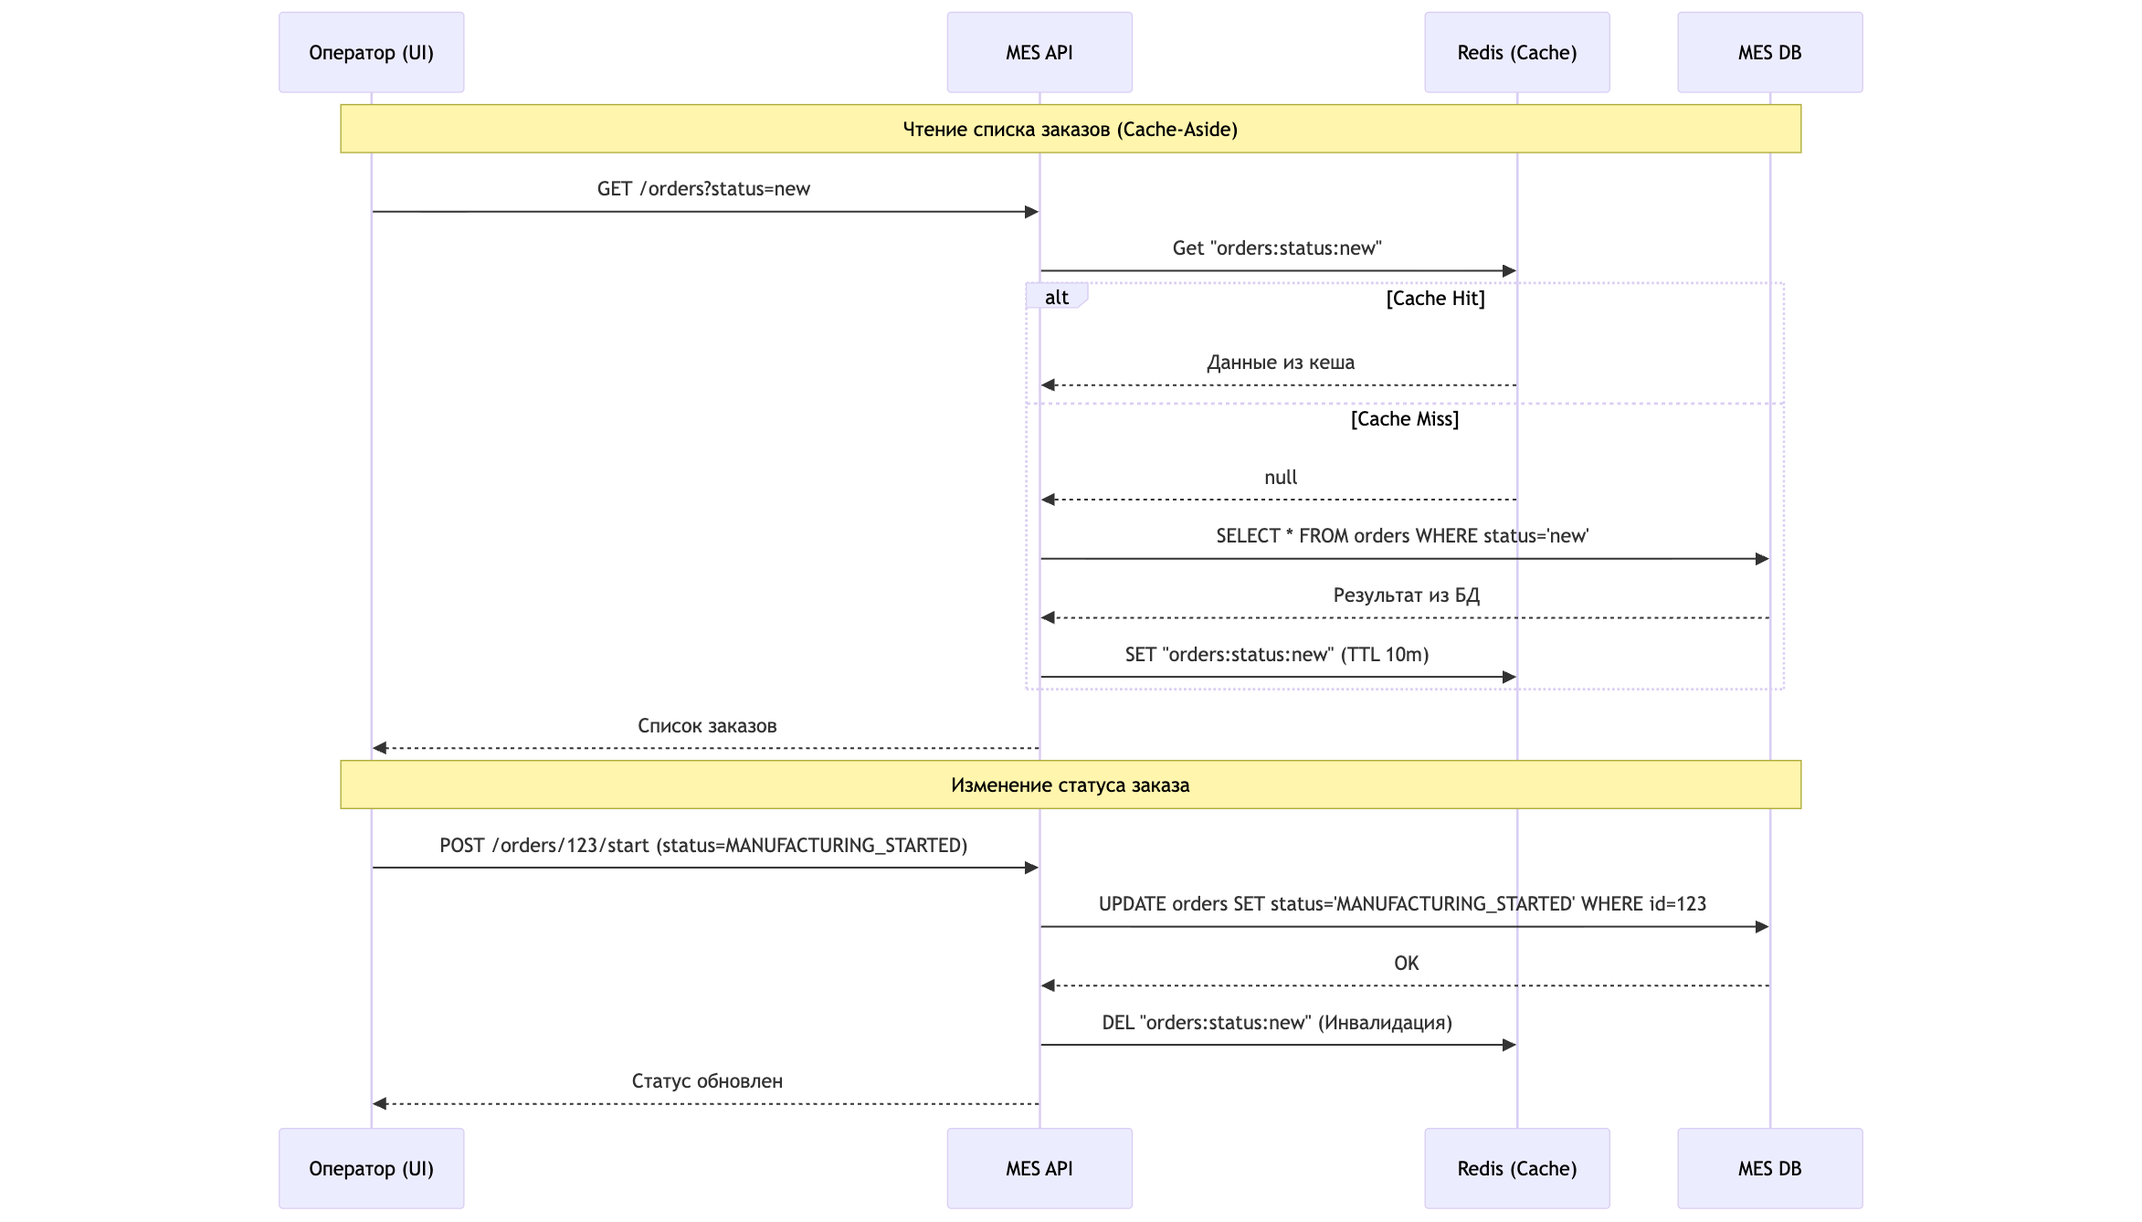
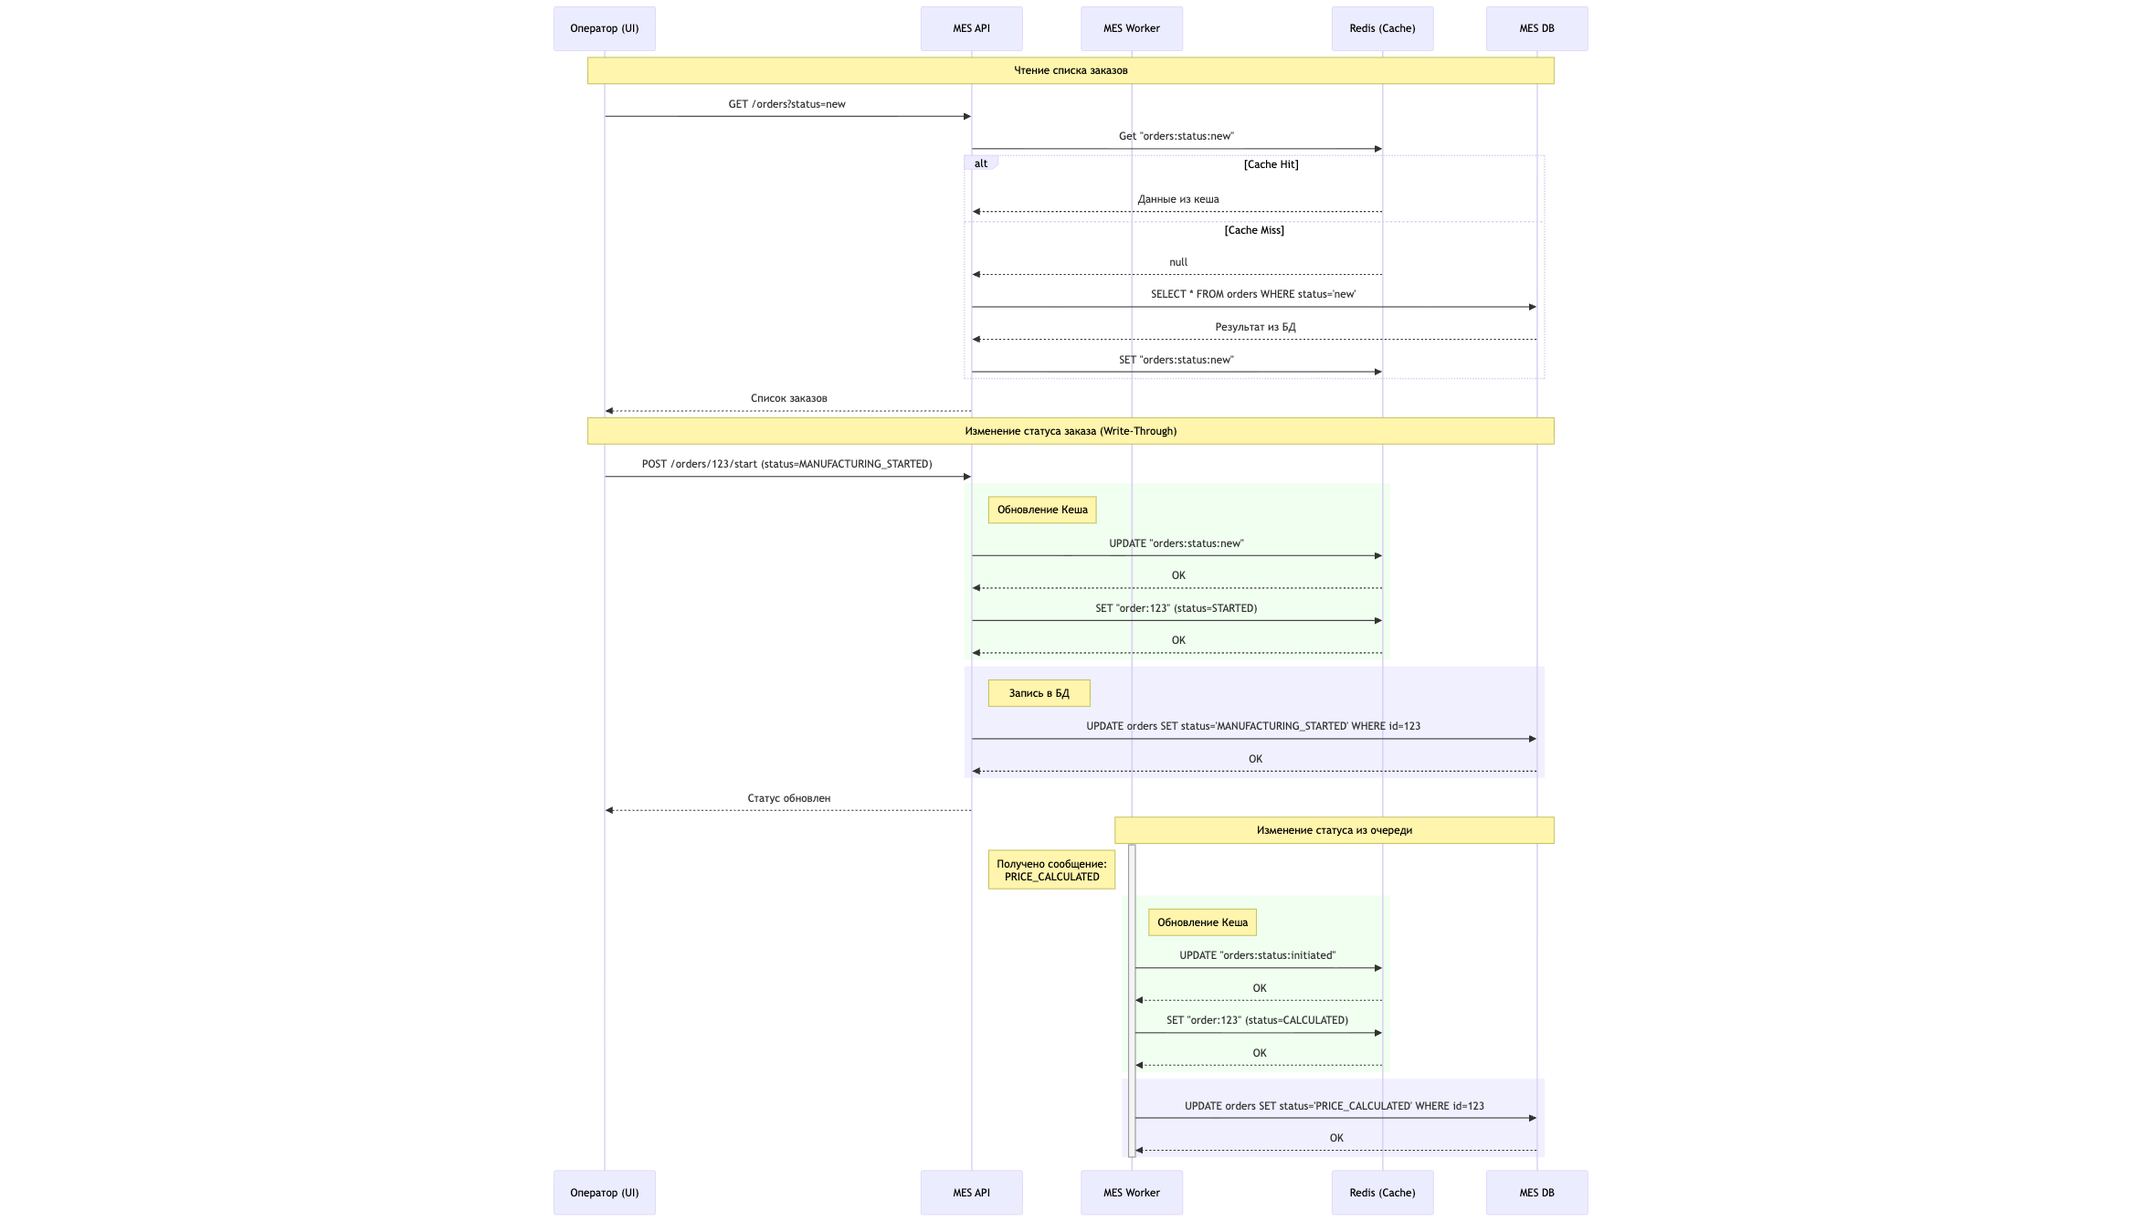
fix task 5

diff --git a/task5/Архитектурное решение по кешированию.MD b/task5/Архитектурное решение по кешированию.MD
@@ -2,62 +2,66 @@
 
 ## 1. Мотивация
 
-На текущий момент основной проблемой системы является низкая производительность MES-системы, что выражается в двух аспектах:
+На текущий момент основной проблемой системы является низкая производительность MES-системы, что выражается в трех аспектах:
 
 *   **Задержки интерфейса операторов:** Дашборд долго прогружается из-за высокой нагрузки на базу данных **MES db**, вызванной одновременно тяжелыми расчетами и частыми запросами на чтение списков заказов.
 *   **Длительность бизнес-процесса:** Каждый заказ требует полного цикла расчета, даже если он типовой или состоит из повторяющихся элементов.
+*   **Риск коллизий:** Операторы могут видеть неактуальные статусы заказов, что ведет к попыткам взять в работу уже занятый заказ.
 
 ### Цели внедрения кеширования:
 
 *   Снижение нагрузки на **MES db** (разгрузка CPU и IOPS).
 *   Мгновенная реакция дашборда операторов при повторных заходах или пагинации.
 *   Ускорение процесса оформления заказа для пользователей за счет кеширования результатов расчетов типовых моделей/элементов.
+*   **Обеспечение строгой консистентности:** Операторы должны видеть только актуальные статусы заказов.
 
 ### Что будем кешировать:
 
-*   Списки заказов для операторов (с учетом фильтров и пагинации).
+*   Списки заказов для операторов (активные очереди, с учетом фильтров и пагинации).
+*   Текущие статусы заказов.
 *   Справочные данные (цены на материалы, коэффициенты сложности).
 *   Результаты расчетов стоимости для часто используемых конфигураций в конструкторе.
 
 ## 2. Предлагаемое решение
 
-Мы будем использовать комбинированный подход, сочетая клиентское и серверное кеширование.
+Мы будем использовать комбинированный подход. Основной упор делается на **Server-Side Caching** с использованием паттерна **Write-Through** для обеспечения актуальности критически важных данных.
 
 ### Типы кеширования
 
-*   **Клиентское кеширование (Browser/SPA):** Для статических ресурсов (Vue/React бандлы) и HTTP-кеширование API-ответов с использованием `ETag`. Это позволит операторам не скачивать список заказов заново, если в базе ничего не изменилось.
-*   **Серверное кеширование (Distributed Cache):** Внедрение **Redis** между API-сервисами и базами данных. Это необходимо для совместного использования кеша несколькими инстансами приложений в облаке.
+*   **Серверное кеширование (Distributed Cache):** Внедрение **Redis** между API-сервисами и базами данных. Это необходимо для синхронизации состояния между разными инстансами приложений в облаке.
+*   **Клиентское кеширование (Browser/SPA):** Для статических ресурсов (Vue/React бандлы) и HTTP-кеширование API-ответов с использованием `ETag`. Используется ограниченно для динамических данных.
 
-### Выбор паттерна: Cache-Aside (Lazy Loading)
+### Выбор паттерна: Write-Through 
 
-Для работы со списками заказов и результатами расчетов выбран паттерн **Cache-Aside**.
+Для работы с заказами и их статусами выбран паттерн **Write-Through**. В этом сценарии приложение обновляет данные сначала в кеше, а затем (синхронно) в базе данных. Чтение происходит преимущественно из кеша.
 
-#### Почему Cache-Aside:
+**Почему Write-Through:**
 
-*   **Отказоустойчивость:** Если **Redis** выйдет из строя, система продолжит работу напрямую с БД (хотя и медленнее).
-*   **Гибкость:** Мы можем кешировать только те данные, которые реально запрашиваются.
-*   **Простота реализации:** Не требует сложной синхронизации на уровне кода доступа к данным.
+*   **Гарантия консистентности:** Данные в кеше никогда не бывают «протухшими» по сравнению с БД. При изменении статуса заказа обновление происходит мгновенно и там, и там.
+*   **Быстрое чтение:** Поскольку данные обновляются при записи, операции чтения (дашборд оператора) всегда попадают в «прогретый» кеш (Cache Hit), не нагружая БД.
+*   **Безопасность конкурентного доступа:** Снижается риск того, что два оператора увидят один и тот же заказ как «свободный», так как кеш является единым источником правды.
 
 #### Почему другие не подходят:
 
-*   **Write-Through:** Приведет к задержкам при создании заказа, так как запись в кеш будет блокирующей. Для MES, где важна скорость фиксации статуса, это критично.
-*   **Refresh-Ahead:** Трудно реализовать, так как мы не можем точно предсказать, какой именно фильтр применит оператор или какую модель создаст пользователь в конструкторе.
+*   **Cache-Aside:** Существует временной лаг между записью в БД и инвалидацией кеша. В высоконагруженной MES-системе это может привести к тому, что оператор увидит в списке заказ, который уже взят в работу другим сотрудником.
+*   **Refresh-Ahead:** Трудно реализовать, так как мы не можем точно предсказать, какой именно фильтр применит оператор или какую модель создаст пользователь.
 
-### Инвалидация кеша
+### Инвалидация кеша и отказоустойчивость
 
-Мы будем использовать **Программную инвалидацию (Event-based)** в сочетании с **TTL (Time-To-Live)**.
+Мы будем использовать программную инвалидацию и **TTL (Time-To-Live)**.
 
-*   При изменении статуса заказа (например, с `SUBMITTED` на `PRICE_CALCULATED`), приложение **MES API** должно принудительно удалить (или обновить) ключ в **Redis**, отвечающий за список заказов данного оператора.
-*   Для справочных данных (цены на золото/камни) будет использоваться **TTL** (например, 1 час), так как эти данные меняются редко.
+*   **TTL (Time-To-Live):** Устанавливаем разумный TTL (например, 24 часа) для ключей заказов, чтобы кеш не забивался старыми данными.
+*   **Failover:** Если запись в Redis не удалась, транзакция откатывается, и пользователю возвращается ошибка. Это гарантирует, что операторы не работают с рассинхронизированными данными.
 
 ## 3. Сравнительный анализ стратегий
 
-| Критерий | TTL (по времени) | Программная (по событию) | Manual (вручную) |
-| :--- | :--- | :--- | :--- |
-| **Актуальность данных** | Возможен эффект «грязного чтения» до истечения времени. | Максимальная (данные всегда свежие). | Зависит от действий админа. |
-| **Нагрузка на БД** | Низкая. | Средняя (частые инвалидации при активности). | Минимальная. |
-| **Сложность реализации** | Очень низкая (один параметр). | Высокая (нужна логика в коде приложения). | Низкая. |
-| **Применимость** | Идеально для цен и справочников. | Идеально для статусов заказов. | Для экстренных случаев. |
+| Критерий | Write-Through (Выбрано) | Cache-Aside (Отклонено) |
+| :--- | :--- | :--- |
+| **Скорость чтения** | Очень высокая (данные всегда в кеше). | Высокая, но возможны промахи (Cache Miss). |
+| **Скорость записи** | Ниже (нужно писать в 2 места: Cache + DB). | Высокая (пишем только в БД, кеш инвалидируется асинхронно). |
+| **Актуальность данных** | Максимальная (Кеш == БД). | Средняя (возможен лаг между записью и чтением). |
+| **Нагрузка на БД** | Только на запись. Чтение идет из Redis. | Скачкообразная (при промахах кеша нагрузка падает на БД). |
+| **Риск для MES** | Низкий (операторы видят правду). | Высокий (операторы могут видеть фантомные заказы). |
 
 
 
